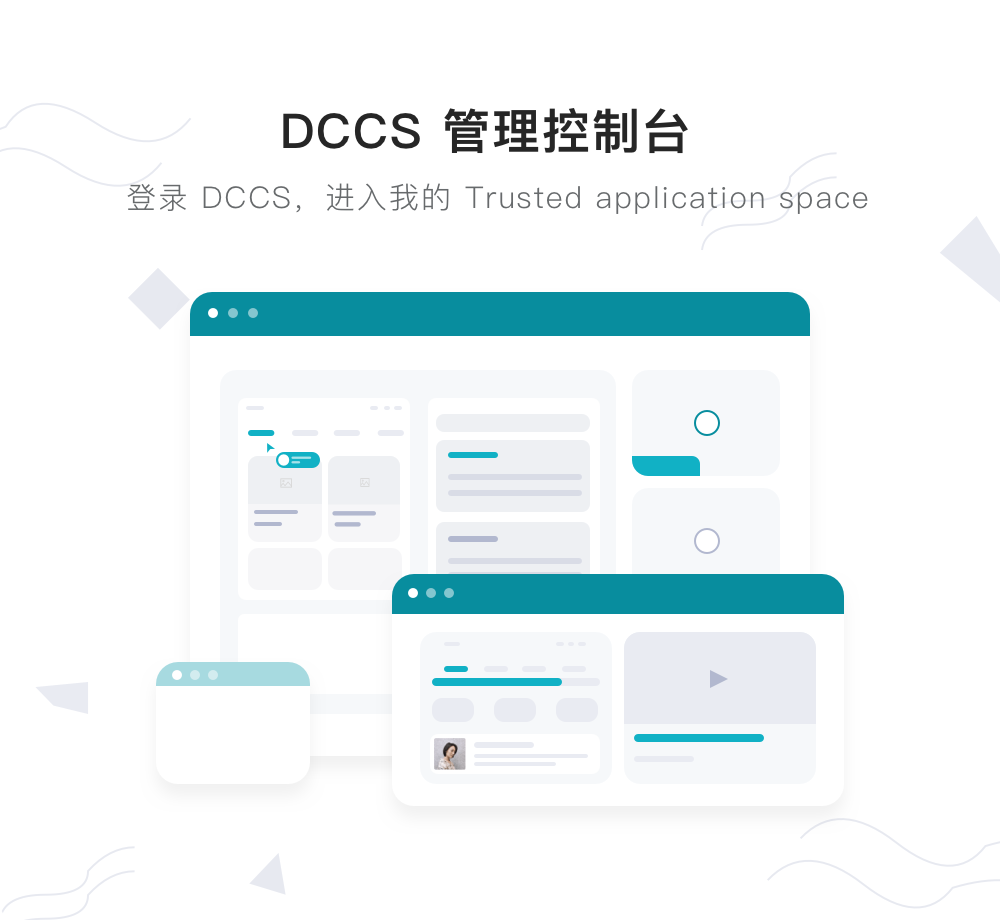
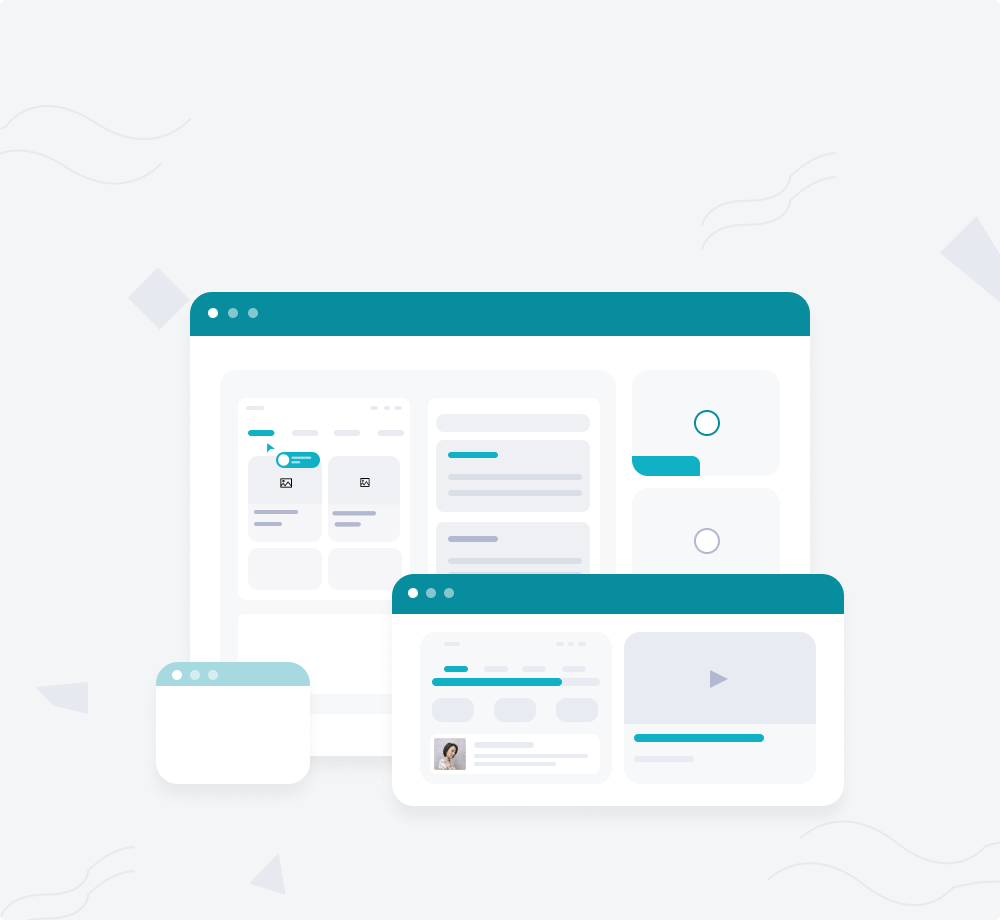
feat: 登录页文案替换为配置

diff --git a/src/pages/Login/index.vue b/src/pages/Login/index.vue
@@ -3,7 +3,7 @@ import { reactive, ref } from "vue";
 import useCache from "@/hooks/useCache";
 import { useRouter } from "vue-router";
 import { useLogin } from "./service";
-import { storage_key } from "@/utils/const/index";
+import { storage_key, system_info } from "@/utils/const/index";
 
 const isActiveUsername = ref(false);
 const isActivePassword = ref(false);
@@ -65,6 +65,10 @@ const handleChangeInput = () => {
           src="@/assets/images/login-left.png"
           :class="cls['logo-left-img']"
         />
+        <div :class="cls['title-container']">
+          <div :class="cls['title']">{{ system_info.title }}</div>
+          <div :class="cls['second-title']">{{ system_info.description }}</div>
+        </div>
       </div>
       <div :class="cls['login-info']">
         <img src="@/assets/images/logo.png" :class="cls['logo-icon']" alt="" />
@@ -165,6 +169,36 @@ const handleChangeInput = () => {
   background: url(@/assets/images/login-bg.png) center center/cover no-repeat;
   .login-left {
     width: 65%;
+    position: relative;
+
+    .title-container {
+      display: flex;
+      flex-direction: column;
+      align-items: center;
+      width: 100%;
+      margin-top: 45px;
+      position: absolute;
+      top: 0;
+      left: 0;
+
+      .title {
+        height: 40px;
+        font-size: 26px;
+        font-weight: 600;
+        color: #262626;
+        line-height: 40px;
+        letter-spacing: 1px;
+        margin-bottom: 8px;
+      }
+
+      .second-title {
+        height: 20px;
+        font-size: 16px;
+        color: rgba(103, 106, 108, 0.7);
+        line-height: 20px;
+        letter-spacing: 1px;
+      }
+    }
     .logo-left-img {
       height: 100%;
       width: 100%;

diff --git a/components.d.ts b/components.d.ts
@@ -5,7 +5,7 @@
 // Read more: https://github.com/vuejs/core/pull/3399
 import '@vue/runtime-core'
 
-export { }
+export {}
 
 declare module '@vue/runtime-core' {
   export interface GlobalComponents {

diff --git a/src/utils/const/index.ts b/src/utils/const/index.ts
@@ -1,1 +1,5 @@
+export const system_info = {
+  title: "DCCS",
+  description: "登录 DCCS，进入我的 Trusted application space",
+};
 export const storage_key = `user_info`;

diff --git a/todo.md b/todo.md
@@ -1,6 +1,6 @@
 vue3 + ts + vue-router + pinia + css.module 
 
-- element-plus 
+- ant-design-vue
 1. 按需引入 done
 2. 默认样式修改 waiting
 3. 国际化 waiting
@@ -26,7 +26,8 @@ vue3 + ts + vue-router + pinia + css.module
 - 日常开发
 1. axios 配置 done
 2. 文件上传服务引入 done
-3. eslint + prettier 配置 waiting
+3. tailwindcss 配置 done
+4. eslint + prettier 配置 waiting
 
 - 移动端适配
 1. 移动端判断函数 done
